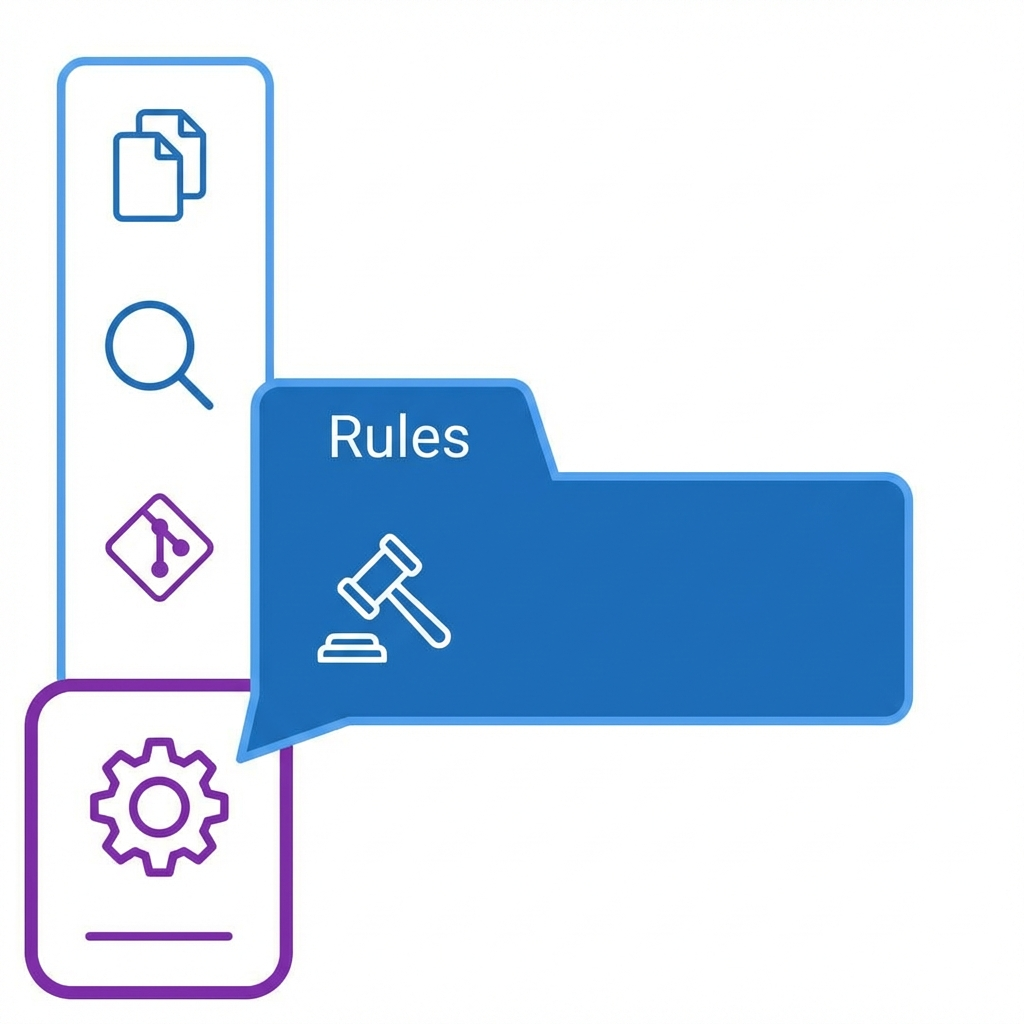
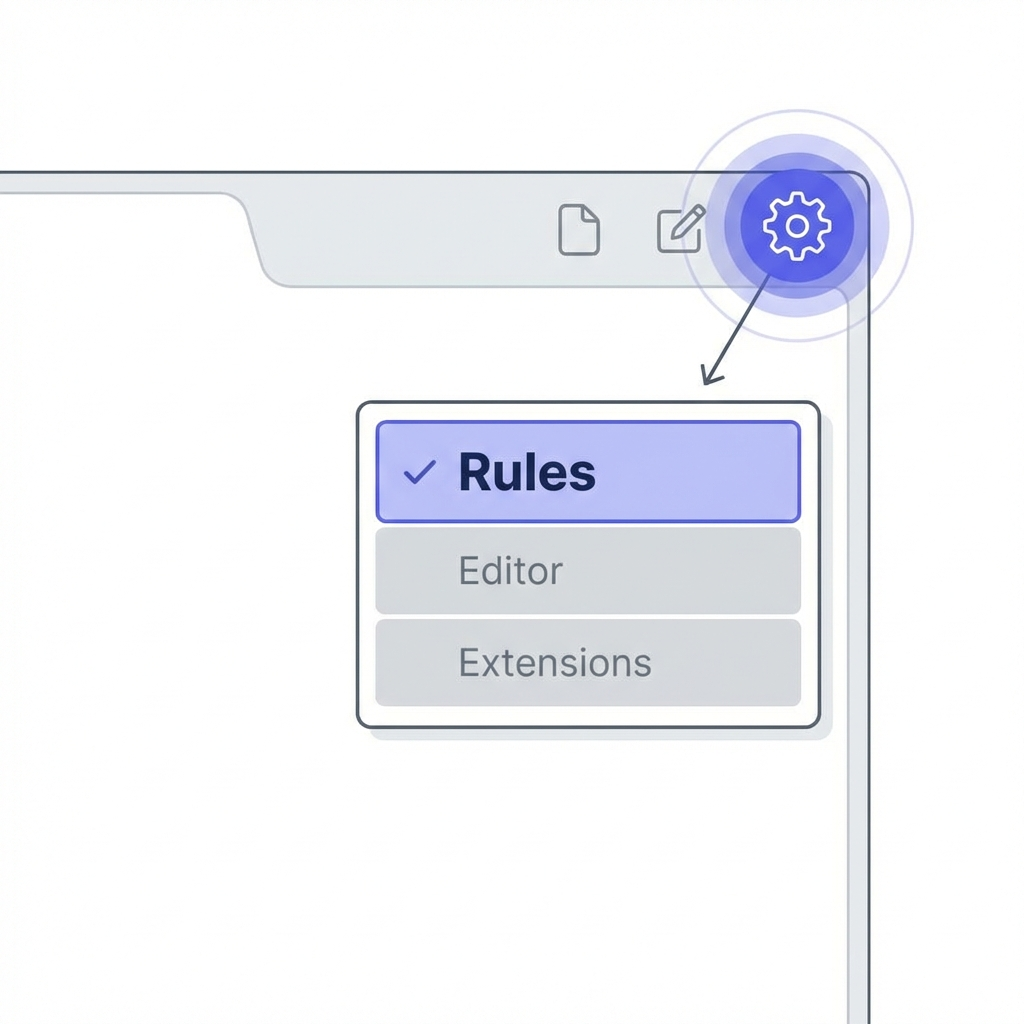
fix: correct settings location to top right

diff --git a/dist/setup.html b/dist/setup.html
@@ -77,10 +77,10 @@
                     <h3>やり方</h3>
                     <div class="settings-visual">
                         <img src="/settings-guide.png" alt="設定画面のガイド" class="guide-img" />
-                        <p class="caption">👆 左下のアイコンから「Rules」を開こう！</p>
+                        <p class="caption">👆 右上のアイコンから「Rules」を開こう！</p>
                     </div>
                     <ol>
-                        <li>Antigravityの左下にある <strong>⚙ Settings</strong> を押す</li>
+                        <li>Antigravityの右上にある <strong>⚙ Settings</strong> を押す</li>
                         <li><strong>Rules</strong> というタブを選ぶ</li>
                         <li><strong>+ Global</strong> ボタンを押す（または Global Rule を編集）</li>
                         <li>下のポックスの中身をコピーして、貼り付ける</li>

diff --git a/setup.html b/setup.html
@@ -77,10 +77,10 @@
                     <h3>やり方</h3>
                     <div class="settings-visual">
                         <img src="/settings-guide.png" alt="設定画面のガイド" class="guide-img" />
-                        <p class="caption">👆 左下のアイコンから「Rules」を開こう！</p>
+                        <p class="caption">👆 右上のアイコンから「Rules」を開こう！</p>
                     </div>
                     <ol>
-                        <li>Antigravityの左下にある <strong>⚙ Settings</strong> を押す</li>
+                        <li>Antigravityの右上にある <strong>⚙ Settings</strong> を押す</li>
                         <li><strong>Rules</strong> というタブを選ぶ</li>
                         <li><strong>+ Global</strong> ボタンを押す（または Global Rule を編集）</li>
                         <li>下のポックスの中身をコピーして、貼り付ける</li>
